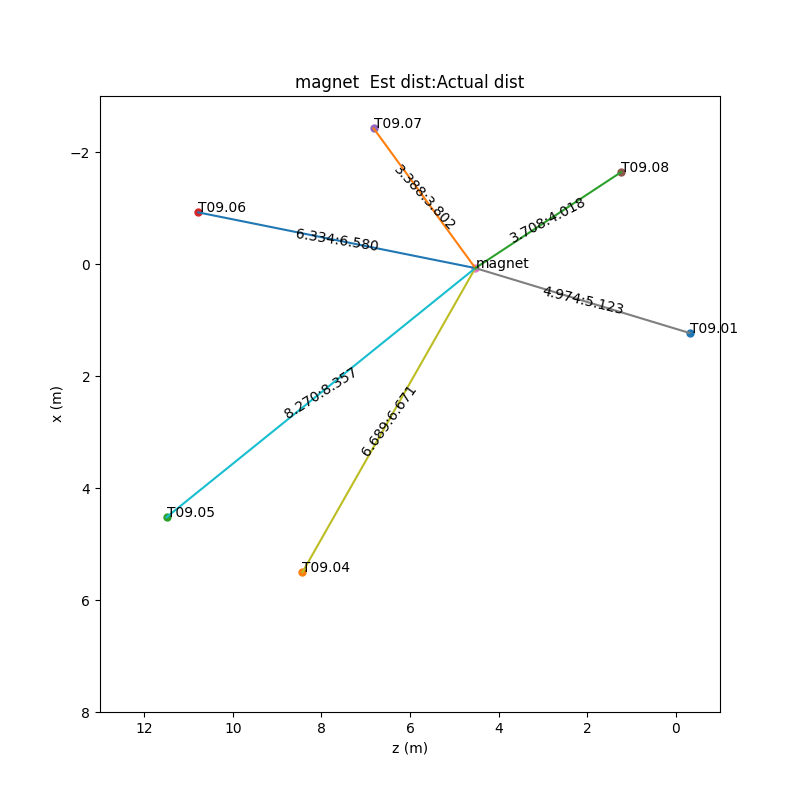
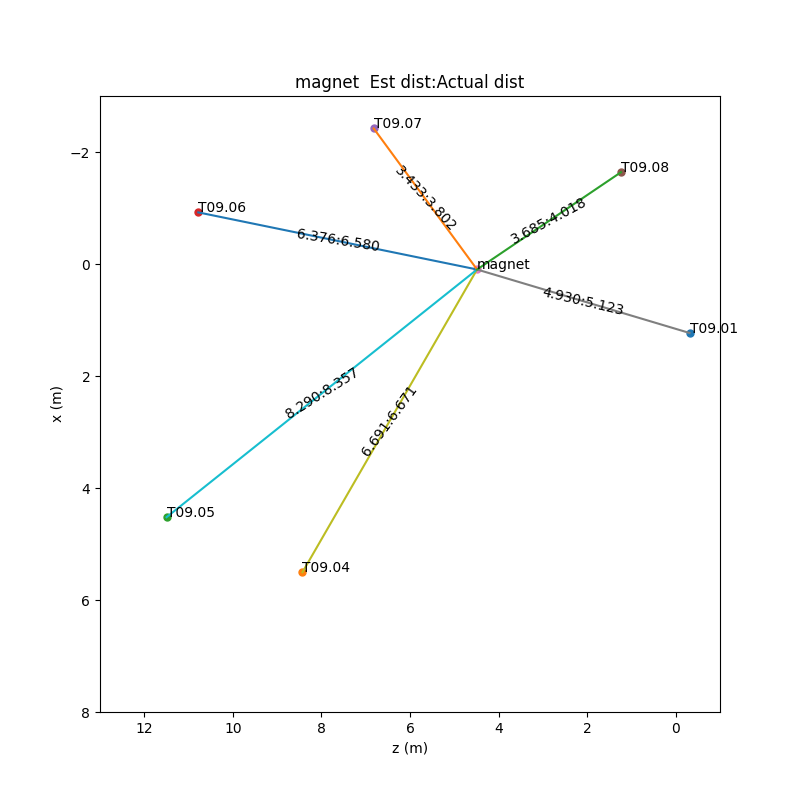
modified priors

diff --git a/Detectors.py b/Detectors.py
@@ -29,10 +29,10 @@ def add_d(det_name, fid_name, dist, err=0.01):
 
 # Initial guesses for locations of detectors
 add_p('pb-glass', 0., 1.35 + 0.2, 7.)  # half height of pb glass
-add_p('HD14.A', 0.35, 1.55, 7., err=[0.05, 0.1, 1.0])
-add_p('HD1.A', 0.8, 1.55, 7., err=[0.4, 0.1, 1.0])
+add_p('HD14.A', 0.35, 1.55, 7., err=[0.05, 0.001, 1.0])
+add_p('HD1.A', 0.8, 1.55, 7., err=[0.4, 0.001, 1.0])
 add_p('T2', 0.0, 1.35, 5., err=[0.001, 0.005, 2.0])
-add_p('magnet', 0., 1.35 + 0.4, 6., err=[0.005, 0.2, 2.0])
+add_p('magnet', 0., 1.35 + 0.4, 6., err=[0.005, 0.001, 2.0])
 add_p('T0', 0., 1.35 + 0.2, 0., err=[0.001, 0.01, 0.1])
 
 # Distances to fiducials
